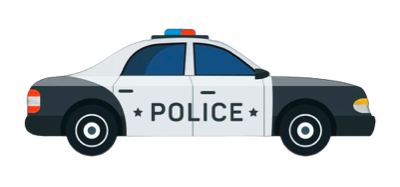
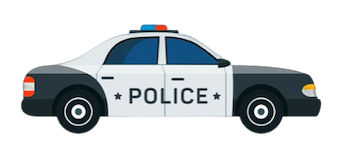
animation stuff

diff --git a/css/style.css b/css/style.css
@@ -76,28 +76,26 @@ main {
 /* ================ */
 /* GRAPHICS SECTION */
 #graphics {
-  width: 300px;
-  text-align: center;
-  margin: 1rem 0;
+  width: 100%;
+  margin: 0.5rem 0;
 }
 .progress-container {
-  display: block;
-  background-color: springgreen;
-  height: 25px;
+  background-image: url("/assets/roadProgress.png");
+  background-position: bottom;
+  background-size: contain;
 }
-.user-progress {
-  background-color: aquamarine;
-  height: 100%;
-  width: 0%;
-  transition: width 0.5s;
+/* #car-player {
+  animation: move-right 5s linear both;
+  -webkit-animation: move-right 5s linear both;
 }
-.police-progress {
-  background-color: red;
-  height: 100%;
-  width: 0%;
-  transition: width 0.5s;
+#car-police {
+  animation: move-right 20s linear both;
+  -webkit-animation: move-right 10s linear both;
+} */
+.move-animation-fast {
+  animation: move-right 5s linear both;
+  -webkit-animation: move-right 5s linear both;
 }
-
 
 #quote-container {
   background-color: rgb(246,246,246);
@@ -113,12 +111,11 @@ main {
   font-size: 1.2rem;
 }
 .correct-character {
-  background-color: rgba(54, 125, 54, 0.6);
-  border: rgba(54, 125, 54, 1);
+  background-color: rgba(54, 125, 54, 0.2);
 }
 .incorrect-character {
-  background-color: rgba(246,114,128,0.6);
-  border: solid 2px rgba(246,114,128,1);
+  background-color: rgba(246,114,128,0.4);
+  text-decoration: underline rgba(246,114,128,1);
 }
 .current-character {
   background-color: rgba(0,0,0,0.3);
@@ -178,7 +175,7 @@ label {
 .current-container {
   background-color: darkorange;
   border-radius: 20%;
-  width: 25rem;
+  width: 22rem;
   height: 3.5rem;
   display: flex;
   flex-flow: row wrap;
@@ -192,9 +189,10 @@ label {
 .statblock {
   display: flex;
   /* flex-basis: content; */
-  min-width: 60rem;
+  padding: 0 2rem;
+  gap: 1rem;
   border-radius: 20rem;
-  flex-direction: row;  
+  flex-flow: row wrap;
   background: linear-gradient(45deg, rgba(159,65,172,1) 0%, rgba(115,61,161,1) 45%, rgba(157,43,142,1)80%);
   border-radius: 0.5rem;
   /* margin: 0.5rem; */
@@ -352,8 +350,8 @@ label {
     padding: auto;
   }
   #user-vehicle {
-    max-width: 200;
-    max-height: 200;
+    max-width: 200px;
+    max-height: 200px;
   }
   label {
     font-size: 0.9rem;
@@ -442,5 +440,25 @@ label {
   100% {
     -webkit-transform: scale(0.5);
     transform: scale(0.5);
+  }
+}
+@keyframes move-right {
+  0% {
+    transform: translateX(0);
+    -webkit-transform: translateX(0);
+  }
+  100% {
+    transform: translateX(800px);
+    -webkit-transform: translateX(800px)
+  }
+}
+@-webkit-keyframes move-right {
+  0% {
+    transform: translateX(0);
+    -webkit-transform: translateX(0);
+  }
+  100% {
+    transform: translateX(800px);
+    -webkit-transform: translateX(800px)
   }
 }

diff --git a/js/app.js b/js/app.js
@@ -294,8 +294,6 @@ vehicles = [
 const userPlayer = new Player("Bob", "", "", vehicles[0]);
 
 
-
-
 // ACTUAL CODE FOR TYPING TEST
 // 60 seconds for user to type
 const timeLimit = 60;
@@ -562,6 +560,16 @@ const showResultSession = () => {
 
   updateCareerStats();
 };
+
+
+// Vanilla JavaScript solution to move the cars
+// moving is just translateX CSS animation, so going to add and remove that CSS property
+const carPlayerElem = document.querySelector("#car-player");
+const carPoliceElem = document.querySelector("#car-police");
+
+const movePlayerCar = () => {
+  carPlayerElem.style
+}
 
 
 // since CSS animations only play once (per MDN) if iteration-count set to "infinite," which would look silly here,

diff --git a/index.html b/index.html
@@ -32,11 +32,8 @@
       <main>
         <section id="graphics">
           <div class="progress-container">
-            <div class="user-progress"></div>
-            <canvas id="user-canvas" width="640px" height="160px"></canvas>
-          </div>
-          <div class="progress-container">
-            <div class="police-progress"></div>
+            <img src="/assets/policeCar.png" id="car-police" width="140px" height="90px" />
+            <img src="/assets/playerCar.png" id="car-player" width="140px" height="90px" />
           </div>
         </section>
         <div id="quote-container">
